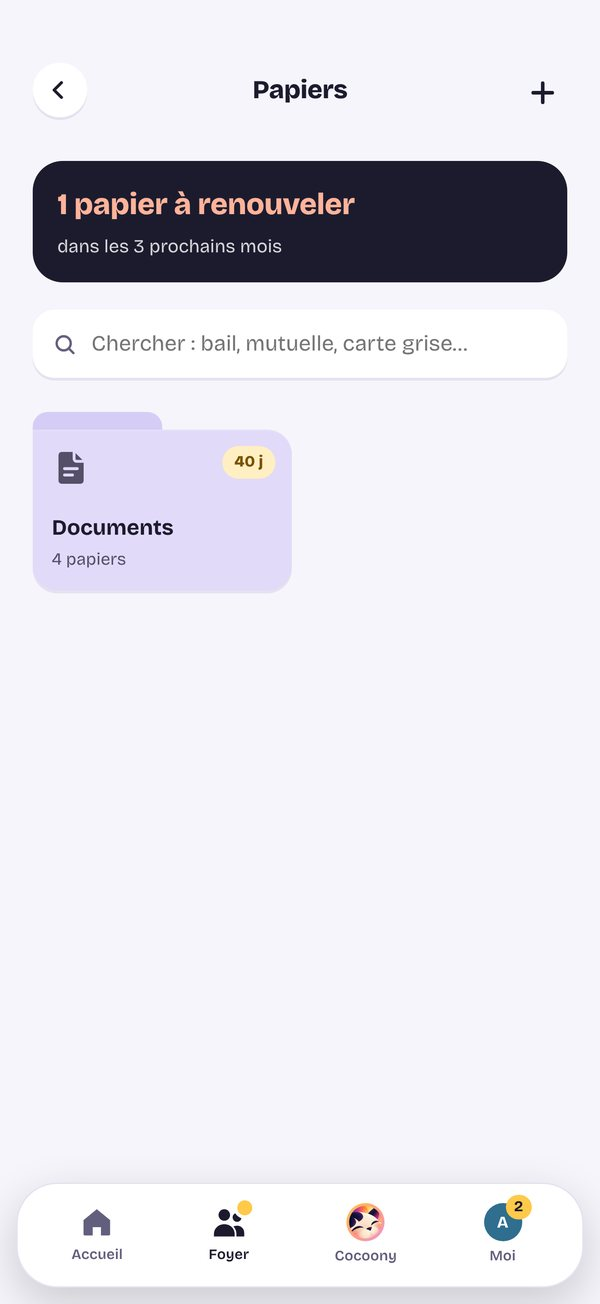
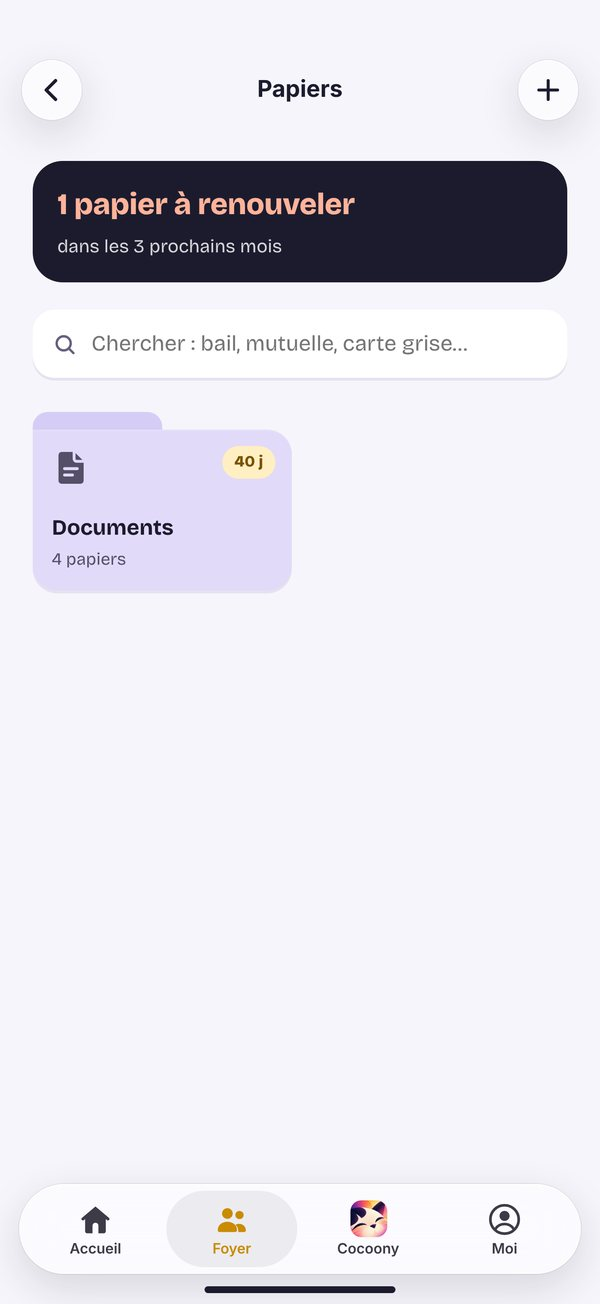
Visuels : écrans habillés comme l'app iPhone (barre d'onglets Liquid Glass, boutons en verre), cadre iPhone Pro Max sur l'App Store
Claude-Session: https://claude.ai/code/session_014PtC1bhXvDyL6jkTpmKN4j

diff --git a/outils/appstore/ios.js b/outils/appstore/ios.js
@@ -1,0 +1,40 @@
+/* Habillage « app iPhone » pour les captures (comme dans l'app Capacitor) : barre d'onglets native en verre Liquid Glass qui flotte en bas,
+   barre du haut avec boutons ronds en verre (retour, +) et titre, barre d'accueil iOS. window.__ios(onglet) : 0 Accueil, 1 Foyer, 2 Cocoony, 3 Moi. */
+(function(){
+  const css=document.createElement("style"); css.textContent=`
+  .ios-glass{background:rgba(255,255,255,.58);-webkit-backdrop-filter:blur(18px) saturate(1.8);backdrop-filter:blur(18px) saturate(1.8);
+    box-shadow:inset 0 1px 0 rgba(255,255,255,.9),inset 0 -1px 0 rgba(255,255,255,.35),0 0 0 .5px rgba(28,27,46,.10),0 10px 30px rgba(28,27,46,.14)}
+  #iosTab{position:fixed;left:14px;right:14px;bottom:22px;height:66px;border-radius:40px;z-index:9999;display:flex;align-items:center;justify-content:space-around;padding:0 6px;
+    font:600 10.5px/1 -apple-system,"SF Pro Text","Bricolage Grotesque",sans-serif;color:#3C3B47}
+  #iosTab .it{position:relative;flex:1;height:56px;margin:0 2px;border-radius:30px;display:flex;flex-direction:column;align-items:center;justify-content:center;gap:4px}
+  #iosTab .it.on{background:rgba(28,27,46,.07);color:#C98B00}
+  #iosTab svg{width:26px;height:26px}
+  #iosTab img{width:27px;height:27px;border-radius:8px}
+  #iosHome{position:fixed;left:50%;bottom:8px;width:140px;height:5px;margin-left:-70px;border-radius:9px;background:#1C1B2E;z-index:10000}
+  #iosTop{position:fixed;left:0;right:0;z-index:9998;display:flex;align-items:center;justify-content:space-between;padding:0 16px;pointer-events:none}
+  #iosTop .b{width:44px;height:44px;border-radius:50%;display:grid;place-items:center;color:#1C1B2E}
+  #iosTop .b svg{width:22px;height:22px}
+  #iosTop b{font:700 17px/1 -apple-system,"SF Pro Text","Bricolage Grotesque",sans-serif;color:#1C1B2E}
+  #iosTop .sp{width:44px}`;
+  document.head.append(css);
+  const I={
+    house:'<svg viewBox="0 0 24 24"><path d="M12 3.2 2.8 11a1 1 0 0 0 1.3 1.5l.9-.8V20a1.4 1.4 0 0 0 1.4 1.4H10v-5.2a2 2 0 0 1 4 0v5.2h3.6A1.4 1.4 0 0 0 19 20v-8.3l.9.8A1 1 0 0 0 21.2 11Z" fill="currentColor"/></svg>',
+    people:'<svg viewBox="0 0 24 24"><circle cx="9" cy="8" r="3.6" fill="currentColor"/><circle cx="17.2" cy="9" r="2.8" fill="currentColor"/><path d="M2.5 19.2c0-3.4 2.9-5.6 6.5-5.6s6.5 2.2 6.5 5.6c0 .8-.5 1.3-1.3 1.3H3.8c-.8 0-1.3-.5-1.3-1.3Z" fill="currentColor"/><path d="M16.3 20.5h4.1c.7 0 1.1-.4 1.1-1.1 0-2.6-2-4.4-4.6-4.4-.9 0-1.7.2-2.4.6 1.2 1.1 1.9 2.6 1.9 4.4 0 .2 0 .3-.1.5Z" fill="currentColor"/></svg>',
+    person:'<svg viewBox="0 0 24 24"><circle cx="12" cy="12" r="9.6" fill="none" stroke="currentColor" stroke-width="1.8"/><circle cx="12" cy="9.6" r="3.4" fill="currentColor"/><path d="M5.9 18.3c1.3-2 3.5-3.2 6.1-3.2s4.8 1.2 6.1 3.2" fill="none" stroke="currentColor" stroke-width="1.8" stroke-linecap="round"/></svg>',
+    back:'<svg viewBox="0 0 24 24"><path d="M15 4.5 7.5 12l7.5 7.5" fill="none" stroke="currentColor" stroke-width="2.6" stroke-linecap="round" stroke-linejoin="round"/></svg>',
+    plus:'<svg viewBox="0 0 24 24"><path d="M12 4.5v15M4.5 12h15" fill="none" stroke="currentColor" stroke-width="2.4" stroke-linecap="round"/></svg>'};
+  window.__ios=function(on){
+    document.documentElement.classList.add("native-tabs");
+    document.querySelectorAll("#iosTab,#iosHome,#iosTop").forEach(e=>e.remove());
+    const lg=(document.querySelector(".brand-logo")||{}).src||"";
+    const items=[["Accueil",I.house],["Foyer",I.people],["Cocoony",'<img src="'+lg+'" alt="">'],["Moi",I.person]];
+    const t=document.createElement("div"); t.id="iosTab"; t.className="ios-glass";
+    t.innerHTML=items.map(([n,ic],i)=>'<div class="it'+(i===on?" on":"")+'">'+ic+'<span>'+n+'</span></div>').join(""); document.body.append(t);
+    const h=document.createElement("div"); h.id="iosHome"; document.body.append(h);
+    /* barre du haut d'une rubrique : la barre web (cachée en mode natif) donne la position, le titre et s'il y a un « + » */
+    const bar=document.querySelector(".view:not([hidden]) .hub-bar");
+    if(bar){ const r=bar.getBoundingClientRect(), tt=(bar.querySelector(".hb-title,b")||{}).textContent||"", add=!!bar.querySelector(".hub-add");
+      const top=document.createElement("div"); top.id="iosTop"; top.style.top=Math.round(r.top+r.height/2-22)+"px";
+      top.innerHTML='<span class="b ios-glass">'+I.back+'</span><b>'+tt+'</b>'+(add?'<span class="b ios-glass">'+I.plus+'</span>':'<span class="sp"></span>'); document.body.append(top); }
+  };
+})();

diff --git a/index.html b/index.html
@@ -53,7 +53,7 @@ html[data-theme="light"] #cxIntro{background:#F6F5FB!important}html[data-theme="
 <link rel="preconnect" href="https://fonts.googleapis.com">
 <link rel="preconnect" href="https://fonts.gstatic.com" crossorigin>
 <link rel="stylesheet" href="https://fonts.googleapis.com/css2?family=Bricolage+Grotesque:opsz,wght@12..96,300..800&family=Fredoka:wdth,wght@75..125,300..700&display=swap">
-<script>window.COCOON_BUILD="23/10 15:17";</script>
+<script>window.COCOON_BUILD="23/10 16:08";</script>
 <script src="config.js"></script>
 <script id="sbjs" async src="https://cdn.jsdelivr.net/npm/@supabase/supabase-js@2.45.4/dist/umd/supabase.js"></script>
 <script src="cocoon-runtime.js"></script>

diff --git a/outils/appstore/affiches.py b/outils/appstore/affiches.py
@@ -5,12 +5,16 @@ D=os.path.dirname(os.path.abspath(__file__)); OUTD=os.path.abspath(D+'/../../app
 LOGO=D+'/logo.png'
 CSS='''<link rel="stylesheet" href="https://fonts.googleapis.com/css2?family=Bricolage+Grotesque:opsz,wght@12..96,400..800&family=Fredoka:wdth,wght@75..125,300..700&display=swap">
 <style>*{box-sizing:border-box}html,body{margin:0;width:440px;height:956px;overflow:hidden;font-family:"Bricolage Grotesque",system-ui;color:#1C1B2E}
-.phone{position:absolute;border-radius:58px;background:#1C1B2E;padding:11px;box-shadow:0 30px 60px rgba(28,27,46,.28)}
-.phone .scr{position:relative;height:100%;border-radius:48px;overflow:hidden;background:#F6F5FB;padding-top:54px}
-.phone .scr::before{content:"9:41";position:absolute;left:34px;top:18px;font-weight:700;font-size:15px}
-.phone .scr::after{content:"";position:absolute;right:30px;top:22px;width:26px;height:12px;border-radius:4px;border:2px solid #1C1B2E;opacity:.8}
+.phone{position:absolute;container-type:inline-size}
+.phone .fr{position:relative;border-radius:17cqw;padding:2.6cqw;background:linear-gradient(140deg,#8E8A86 0%,#4B4846 18%,#2C2A29 50%,#55524F 82%,#9A9590 100%);
+  box-shadow:inset 0 0 0 .5cqw #1B1A19,inset 0 0 0 .9cqw #6F6B67,0 30px 60px rgba(28,27,46,.30)}
+.phone .fr::before,.phone .fr::after{content:"";position:absolute;width:1.1cqw;border-radius:1cqw;background:linear-gradient(90deg,#3A3836,#77726E)}
+.phone .fr::before{left:-.9cqw;top:19%;height:7%;box-shadow:0 13cqw 0 #5A5653,0 26cqw 0 #5A5653}
+.phone .fr::after{right:-.9cqw;top:27%;height:15%}
+.phone .scr{position:relative;border-radius:14.5cqw;overflow:hidden;background:#F6F5FB;padding-top:11cqw}
+.phone .scr::before{content:"9:41";position:absolute;left:9cqw;top:3.6cqw;font:700 4.1cqw/1 -apple-system,"SF Pro Text","Bricolage Grotesque",sans-serif;color:#1C1B2E}
+.phone .scr::after{content:"";position:absolute;left:50%;top:2.6cqw;width:29cqw;height:8.4cqw;margin-left:-14.5cqw;border-radius:9cqw;background:#050507}
 .phone img.s{display:block;width:100%;height:auto}
-.phone::after{content:"";position:absolute;left:50%;top:22px;width:96px;height:28px;margin-left:-48px;border-radius:20px;background:#0B0A12}
 h1{margin:0;font-weight:800;letter-spacing:-.03em;line-height:1.02}
 .hl{background:#FFC94A;padding:0 8px;border-radius:10px;box-decoration-break:clone;-webkit-box-decoration-break:clone}
 .st{position:absolute;font-weight:900;font-size:15px;background:#FFE14D;color:#1C1B2E;padding:7px 12px;border-radius:13px;box-shadow:0 4px 0 rgba(0,0,0,.15)}
@@ -21,8 +25,8 @@ def A(img,title,rot=-3,cat="left"):  # affiche dégradée
 <div style="position:absolute;left:30px;right:30px;top:58px;color:#fff">
 <div style="display:flex;align-items:center;gap:10px"><img src="file://{LOGO}" style="width:40px;height:40px;border-radius:12px;box-shadow:0 4px 12px rgba(0,0,0,.18)"><span style="font-family:Fredoka,sans-serif;font-weight:700;font-variation-settings:'wdth' 115;font-size:30px;letter-spacing:-.01em">Cocoon</span></div>
 <h1 style="font-size:42px;margin-top:18px">{title}</h1></div>
-<div class="phone" style="left:44px;right:44px;top:262px;height:760px;transform:rotate({rot}deg)"><div class="scr"><img class="s" src="file://{D}/raw/{img}.png"></div></div>
-<img src="file://{LOGO}" style="position:absolute;{cpos};bottom:46px;width:92px;height:92px;border-radius:28px;transform:rotate({-12 if cat=='left' else 12}deg);box-shadow:0 14px 30px rgba(0,0,0,.25)"></body>'''
+<div class="phone" style="left:66px;width:308px;top:250px;transform:rotate({rot}deg)"><div class="fr"><div class="scr"><img class="s" src="file://{D}/raw/{img}.png"></div></div></div>
+<img src="file://{LOGO}" style="position:absolute;right:26px;top:34px;width:74px;height:74px;border-radius:23px;transform:rotate({-10 if cat=='left' else 10}deg);box-shadow:0 12px 26px rgba(0,0,0,.22)"></body>'''
 def B(img,title,sub):  # clair épuré
   return f'''<body style="background:#F6F5FB">
 <div style="position:absolute;left:32px;right:32px;top:70px;text-align:center"><h1 style="font-size:40px">{title}</h1><p style="margin:12px 0 0;font-size:17px;color:#625F7E">{sub}</p></div>

diff --git a/outils/appstore/captures.py b/outils/appstore/captures.py
@@ -22,13 +22,14 @@ async def main():
     print('seed', await pg.evaluate('window.__seeded||window.__seedErr'))
     await pg.add_style_tag(content='.demo-bar{display:none!important}')
     await pg.evaluate("document.documentElement.dataset.theme='light'")
+    await pg.add_script_tag(path=HERE+'/ios.js')   # habillage iPhone : barre d'onglets Liquid Glass, boutons ronds en verre
     tab=lambda t: pg.evaluate("document.querySelector('#tabs .tab[data-tab=%s]').click()"%t)
-    async def shot(n,w=1500): await pg.wait_for_timeout(w); await pg.evaluate('window.scrollTo(0,0)'); await pg.wait_for_timeout(300); await pg.screenshot(path=OUT+'/'+n+'.png')
-    await tab('accueil'); await shot('01-accueil',2500)
+    async def shot(n,w=1500,on=1): await pg.wait_for_timeout(w); await pg.evaluate('window.scrollTo(0,0)'); await pg.wait_for_timeout(300); await pg.evaluate('__ios(%d)'%on); await pg.wait_for_timeout(200); await pg.screenshot(path=OUT+'/'+n+'.png')
+    await tab('accueil'); await shot('01-accueil',2500,0)
     await tab('hub'); await shot('02-foyer',2500)
     for go,n in [('foyer','03-taches'),('courses','04-courses'),('repas','05-repas'),('agenda','06-agenda'),('budget','07-budget'),('documents','08-papiers')]:
       await tab('hub'); await pg.wait_for_timeout(600); await pg.evaluate("document.querySelector('.hb-t[data-go=%s]').click()"%go); await shot(n,1800)
-    await tab('cocoony'); await shot('09-cocoony',2500)
+    await tab('cocoony'); await shot('09-cocoony',2500,2)
     await tab('hub'); await pg.wait_for_timeout(600); await pg.evaluate("document.querySelector('.hb-pban').click()"); await shot('10-plus',1500)
     await pg.keyboard.press('Escape'); await pg.wait_for_timeout(600)
     print(errs[:3])

diff --git a/CLAUDE.md b/CLAUDE.md
@@ -112,6 +112,8 @@ Catégories de tâches perso : `CAT[id]` avec `perso:true`, retrouvées via `cat
   Essayé puis annulé (Angel) : Cocoony redessiné en vectoriel avec yeux/oreille/mèche animés — on garde l'image du logo.
 - **Images App Store** (style « affiche dégradée » choisi par Angel : dégradé Cocoon Plus, logo + « Cocoon » en Fredoka comme l'app,
   titre blanc, téléphone incliné, Cocoony en coin, pas d'autocollant) : `app/appstore/appstore-1…7.jpg` (1320×2868, iPhone 6,9").
+  Captures habillées « app iPhone » par `outils/appstore/ios.js` (`__ios(onglet)` : barre d'onglets Liquid Glass flottante,
+  boutons ronds en verre retour/+ et titre, barre d'accueil) ; même cadre iPhone Pro Max que le site, téléphone entier, Cocoony en haut à droite.
   Pour les refaire : `bash outils/construire.sh demo` puis `python3 outils/appstore/captures.py` (foyer d'exemple `seed.js`, écrans dans
   `outils/appstore/raw/`) puis `python3 outils/appstore/affiches.py` (titres dans `PAGES`).
 - Page de présentation : `presentation/contenu.html` (à modifier, publiable tel quel en artefact, images dans `presentation/img/`)
